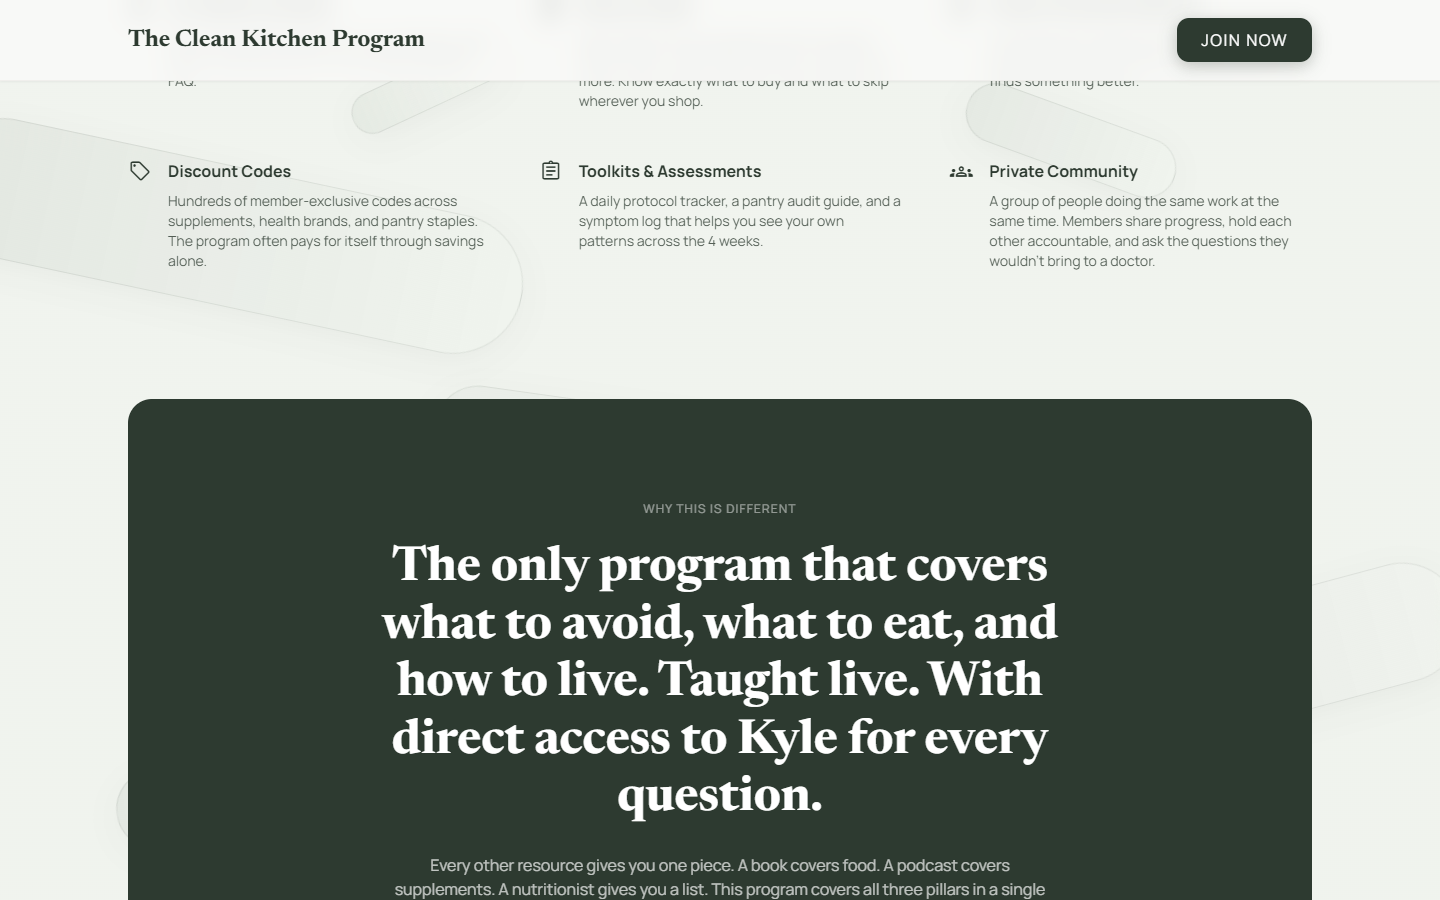
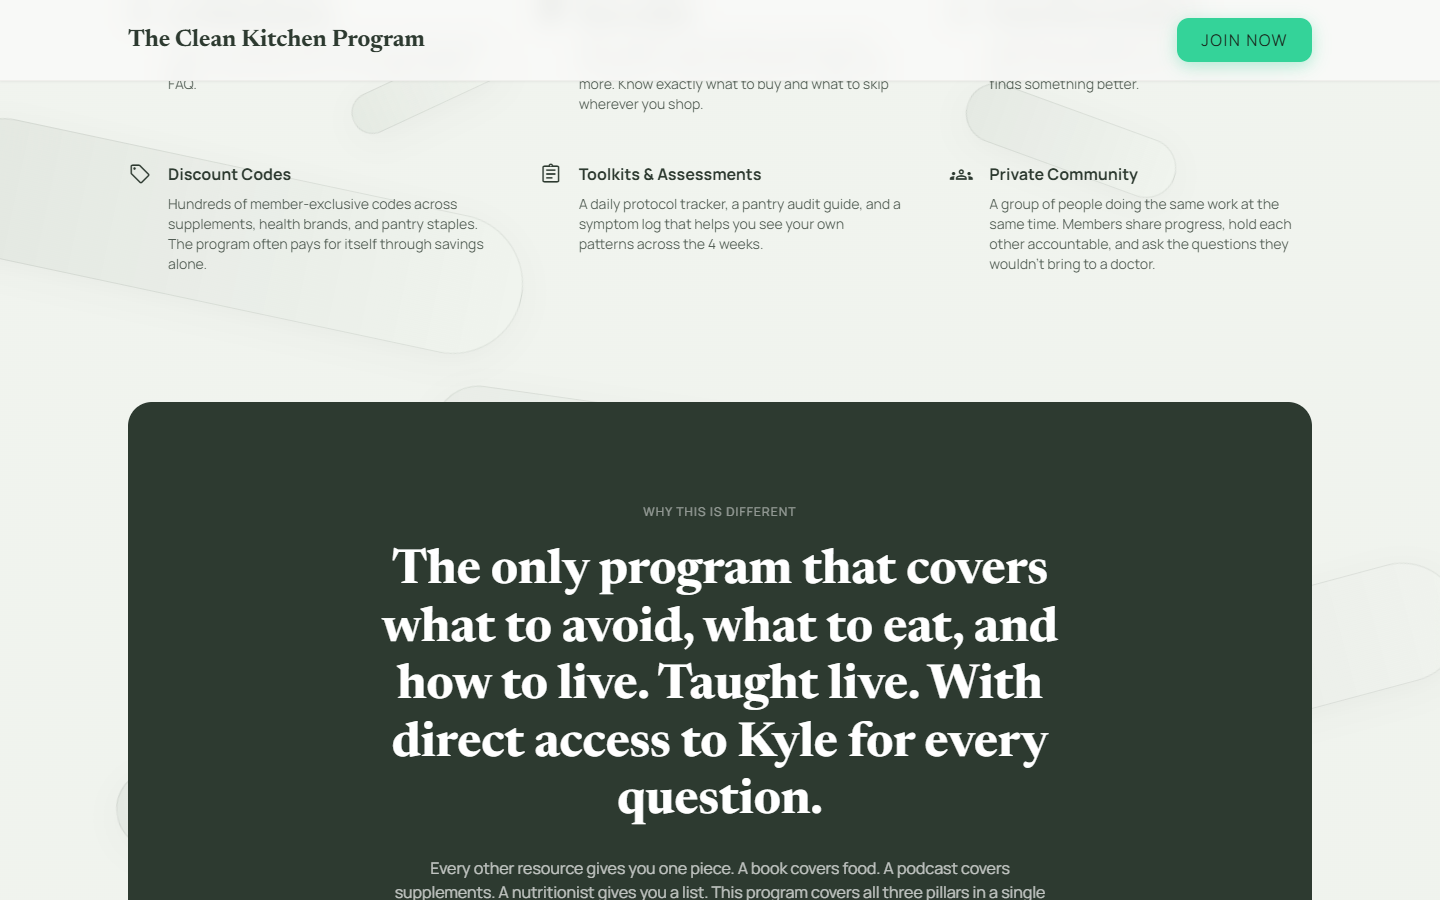
Bold CTA button text

diff --git a/index.html b/index.html
@@ -225,7 +225,7 @@
   <div class="flex justify-between items-center px-6 md:px-12 h-20 max-w-7xl mx-auto">
     <span class="font-newsreader font-bold text-xl md:text-2xl text-primary">The Clean Kitchen Program</span>
     <div class="hidden md:flex gap-8 items-center"></div>
-    <a class="shiny-btn text-on-primary px-6 py-2.5 rounded-lg font-label-caps uppercase tracking-widest" href="#pricing">Join Now</a>
+    <a class="shiny-btn font-bold text-on-primary px-6 py-2.5 rounded-lg font-label-caps uppercase tracking-widest" href="#pricing">Join Now</a>
   </div>
 </nav>
 
@@ -247,7 +247,7 @@
       Get the exact system Kyle follows to eat clean, live healthy, and reduce bloating and inflammation.
     </p>
     <div class="flex flex-col items-center gap-4">
-      <a class="shiny-btn text-on-primary px-6 py-4 md:px-10 md:py-5 rounded-lg text-sm md:text-lg font-label-caps uppercase tracking-widest" href="#pricing">
+      <a class="shiny-btn font-bold text-on-primary px-6 py-4 md:px-10 md:py-5 rounded-lg text-sm md:text-lg font-label-caps uppercase tracking-widest" href="#pricing">
         Start the 4-Week Reset
       </a>
       <p class="text-xs opacity-60 font-body-md">Limited spots available</p>
@@ -285,7 +285,7 @@
 
   <!-- CTA Sprint -->
   <div class="flex justify-center mb-16 md:mb-32">
-    <a class="shiny-btn text-on-primary px-6 py-4 md:px-10 md:py-5 rounded-lg text-sm md:text-lg font-label-caps uppercase tracking-widest" href="#pricing">Enroll Now</a>
+    <a class="shiny-btn font-bold text-on-primary px-6 py-4 md:px-10 md:py-5 rounded-lg text-sm md:text-lg font-label-caps uppercase tracking-widest" href="#pricing">Enroll Now</a>
   </div>
 
   <!-- What's Included -->
@@ -413,7 +413,7 @@
 
   <!-- CTA after curriculum -->
   <div class="flex justify-center my-16 md:my-32">
-    <a class="shiny-btn text-on-primary px-6 py-4 md:px-10 md:py-5 rounded-lg text-sm md:text-lg font-label-caps uppercase tracking-widest" href="#pricing">Secure My Spot</a>
+    <a class="shiny-btn font-bold text-on-primary px-6 py-4 md:px-10 md:py-5 rounded-lg text-sm md:text-lg font-label-caps uppercase tracking-widest" href="#pricing">Secure My Spot</a>
   </div>
 
   <!-- That's Not All -->

diff --git a/stitch.html b/stitch.html
@@ -225,7 +225,7 @@
   <div class="flex justify-between items-center px-6 md:px-12 h-20 max-w-7xl mx-auto">
     <span class="font-newsreader font-bold text-xl md:text-2xl text-primary">The Clean Kitchen Program</span>
     <div class="hidden md:flex gap-8 items-center"></div>
-    <a class="shiny-btn text-on-primary px-6 py-2.5 rounded-lg font-label-caps uppercase tracking-widest" href="#pricing">Join Now</a>
+    <a class="shiny-btn font-bold text-on-primary px-6 py-2.5 rounded-lg font-label-caps uppercase tracking-widest" href="#pricing">Join Now</a>
   </div>
 </nav>
 
@@ -247,7 +247,7 @@
       Get the exact system Kyle follows to eat clean, live healthy, and reduce bloating and inflammation.
     </p>
     <div class="flex flex-col items-center gap-4">
-      <a class="shiny-btn text-on-primary px-6 py-4 md:px-10 md:py-5 rounded-lg text-sm md:text-lg font-label-caps uppercase tracking-widest" href="#pricing">
+      <a class="shiny-btn font-bold text-on-primary px-6 py-4 md:px-10 md:py-5 rounded-lg text-sm md:text-lg font-label-caps uppercase tracking-widest" href="#pricing">
         Start the 4-Week Reset
       </a>
       <p class="text-xs opacity-60 font-body-md">Limited spots available</p>
@@ -285,7 +285,7 @@
 
   <!-- CTA Sprint -->
   <div class="flex justify-center mb-16 md:mb-32">
-    <a class="shiny-btn text-on-primary px-6 py-4 md:px-10 md:py-5 rounded-lg text-sm md:text-lg font-label-caps uppercase tracking-widest" href="#pricing">Enroll Now</a>
+    <a class="shiny-btn font-bold text-on-primary px-6 py-4 md:px-10 md:py-5 rounded-lg text-sm md:text-lg font-label-caps uppercase tracking-widest" href="#pricing">Enroll Now</a>
   </div>
 
   <!-- What's Included -->
@@ -413,7 +413,7 @@
 
   <!-- CTA after curriculum -->
   <div class="flex justify-center my-16 md:my-32">
-    <a class="shiny-btn text-on-primary px-6 py-4 md:px-10 md:py-5 rounded-lg text-sm md:text-lg font-label-caps uppercase tracking-widest" href="#pricing">Secure My Spot</a>
+    <a class="shiny-btn font-bold text-on-primary px-6 py-4 md:px-10 md:py-5 rounded-lg text-sm md:text-lg font-label-caps uppercase tracking-widest" href="#pricing">Secure My Spot</a>
   </div>
 
   <!-- That's Not All -->
